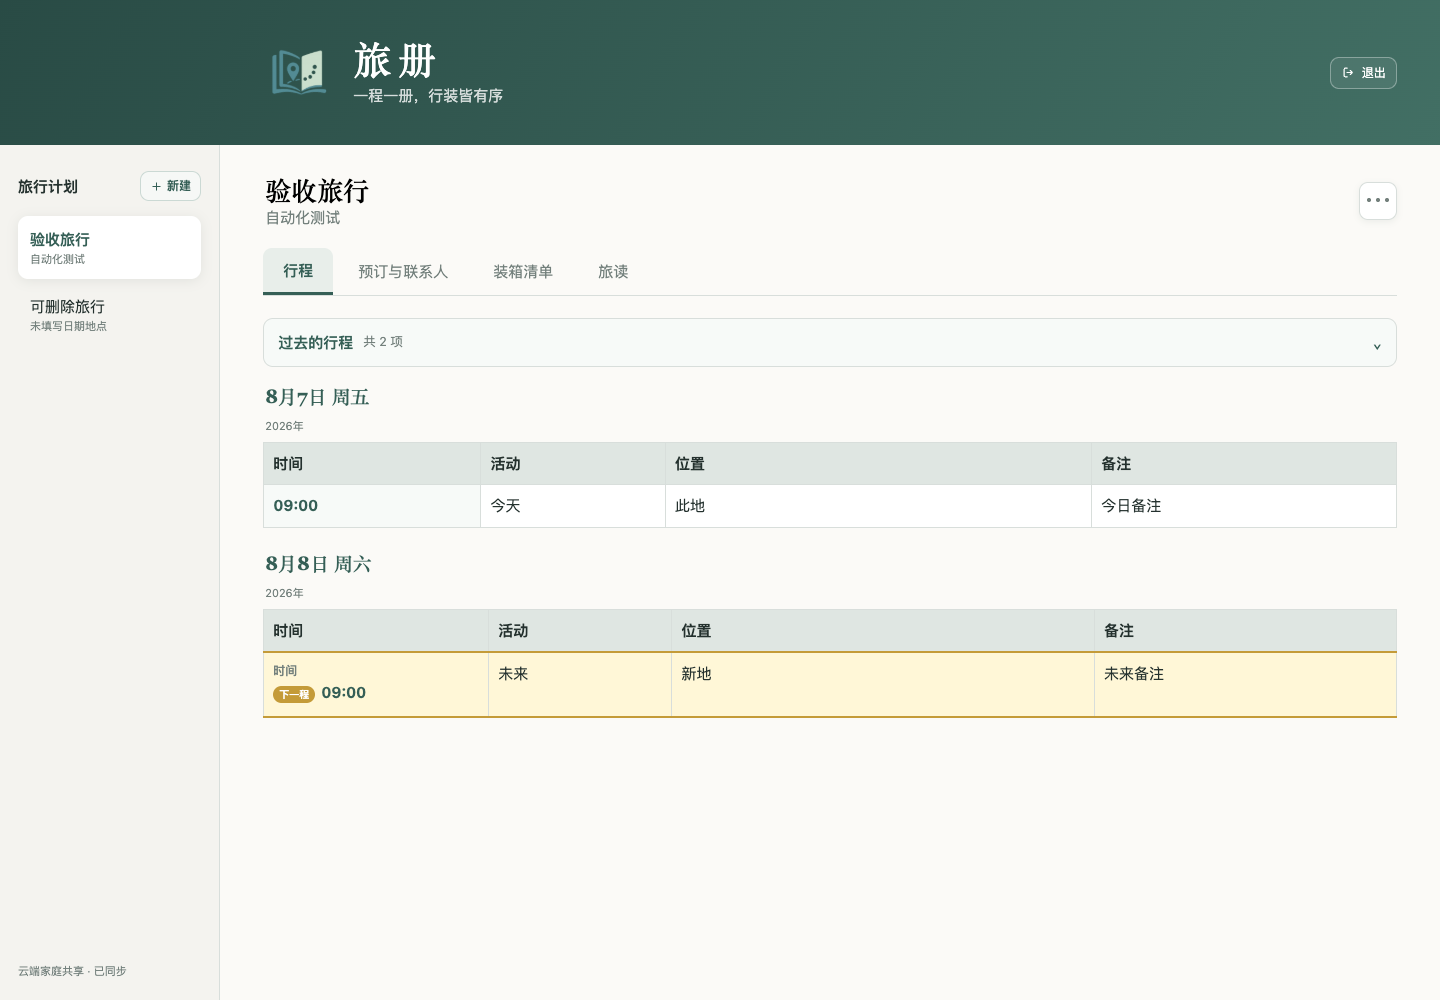
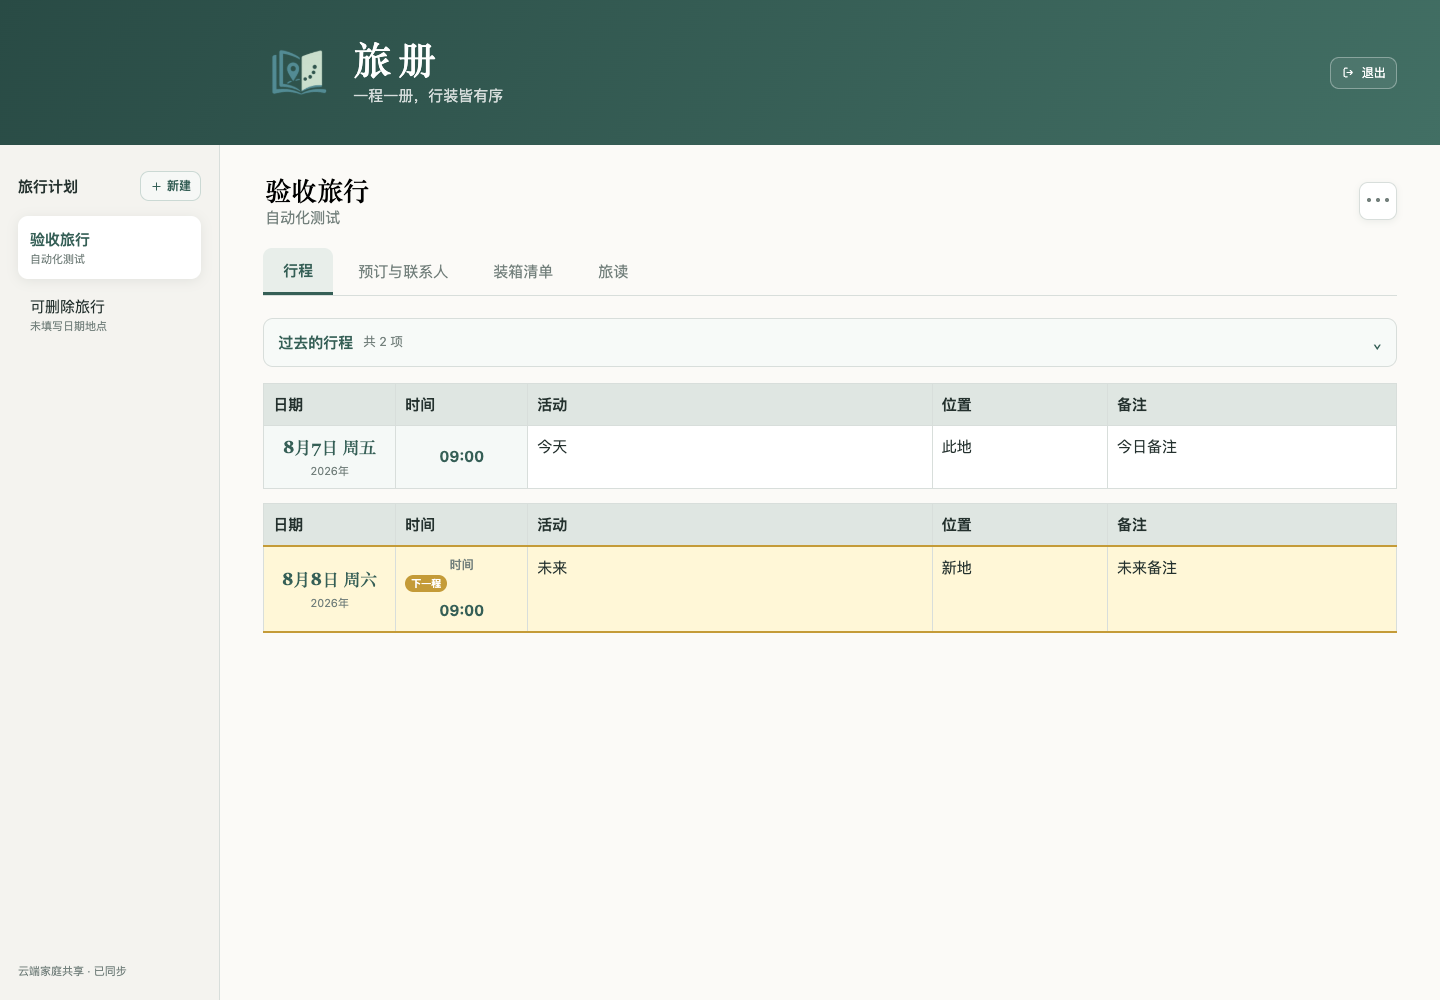
Merge itinerary dates with rowspan

Changed region(s): [[0.1562, 0.372, 0.9688, 0.744]]

diff --git a/app.js b/app.js
@@ -83,14 +83,14 @@ function groupItineraryRows(rows){let dated=rows.map((row,index)=>({row,index,da
 function itineraryDayIsExpanded(date,now=new Date()){return !/^(\d{4})-(\d{2})-(\d{2})$/.test(date)||date>=shanghaiParts(now).date}
 window.lvceItineraryDayIsExpanded=itineraryDayIsExpanded;
 function itineraryDateLabel(date){let m=/^(\d{4})-(\d{2})-(\d{2})$/.exec(date);if(!m)return {title:date||'未填写日期',year:''};let day=new Date(Date.UTC(+m[1],+m[2]-1,+m[3])),weekday=['周日','周一','周二','周三','周四','周五','周六'][day.getUTCDay()];return {title:`${+m[2]}月${+m[3]}日 ${weekday}`,year:m[1]}}
-function itineraryGroupHeading(group,rows){let label=itineraryDateLabel(group.key),head=document.createElement('header');head.className='itinerary-day-heading';head.innerHTML=`<div><h3>${esc(label.title)}</h3>${label.year?`<small>${esc(label.year)}年</small>`:''}</div>`;if(editing){let input=document.createElement('textarea');input.className='itinerary-date-edit';input.rows=1;input.value=group.key==='未填写日期'?'':group.key;input.setAttribute('aria-label','日期');input.oninput=()=>autoGrow(input);input.onchange=()=>{group.items.forEach(item=>rows[item.index][0]=input.value);save();render()};head.append(input);requestAnimationFrame(()=>autoGrow(input))}return head}
+function itineraryDateCell(group,rows){let label=itineraryDateLabel(group.key),cell=document.createElement('td');cell.className='itinerary-date-cell';cell.dataset.label='日期';cell.rowSpan=group.items.length;cell.innerHTML=`<div class="cell-view"><strong>${esc(label.title)}</strong>${label.year?`<small>${esc(label.year)}年</small>`:''}</div>`;if(editing){let input=document.createElement('textarea');input.className='cell-edit itinerary-date-edit';input.rows=1;input.value=group.key==='未填写日期'?'':group.key;input.setAttribute('aria-label','日期');input.oninput=()=>autoGrow(input);input.onchange=()=>{group.items.forEach(item=>rows[item.index][0]=input.value);save();render()};cell.append(input);requestAnimationFrame(()=>autoGrow(input))}return cell}
 function ticketRecordId(row,index){return row?.[12]||`ticket:${index}`}function bookingTargets(){let t=trip(),targets=[];t.tickets.forEach((row,index)=>targets.push({targetType:'ticket',targetId:ticketRecordId(row,index),title:row[0]||'未命名门票',row,index}));t.transport.forEach((row,index)=>targets.push({targetType:'transport',targetId:`transport:${index}`,title:[row[1],row[4]&&row[6]?`${row[4]}→${row[6]}`:''].filter(Boolean).join(' '),row,index}));return targets}function linkedBooking(row){let link=trip().itineraryLinks?.find(x=>x.date===row[0]&&x.activity===row[2]);return link&&bookingTargets().find(x=>x.targetType===link.targetType&&x.targetId===link.targetId)}function openBooking(target){state.tab='bookings';render();requestAnimationFrame(()=>{let id=target.targetType==='ticket'?`ticket-row-${target.index}`:`transport-row-${target.index}`,node=document.getElementById(id);node?.classList.add('linked-row-highlight');node?.focus();node?.scrollIntoView({behavior:'smooth',block:'center'})})}
 function itineraryPanel(rows){
   let specs=itinerarySpecs,sec=document.createElement('section'),nextIndex=nextItineraryIndex(rows),today=shanghaiParts().date,groups=groupItineraryRows(rows);
   let past=groups.filter(g=>/^\d{4}-\d{2}-\d{2}$/.test(g.key)&&g.key<today),current=groups.filter(g=>!/^\d{4}-\d{2}-\d{2}$/.test(g.key)||g.key>=today);
   sec.className='table-block itinerary-block';sec.innerHTML='<div class="section-title"><h2>每日行程</h2><button class="edit-only">＋ 添加</button></div><div class="itinerary-current itinerary-groups"></div>';
   let appendRow=(body,item)=>{let node=rowNode('每日行程',rows,specs,item.row,item.index,{actions:editing,next:!editing&&item.index===nextIndex});let linked=linkedBooking(item.row),cell=node.querySelector('td[data-label="活动"] .cell-view');if(linked&&cell){let b=document.createElement('button');b.type='button';b.className='booking-link';b.textContent=linked.targetType==='transport'?'查看车票 →':'查看门票 →';b.setAttribute('aria-label',`查看${linked.title}详情`);b.onclick=()=>openBooking(linked);cell.append(b)}if(editing){let cell=node.querySelector('td[data-label="活动"]'),sel=document.createElement('select');sel.className='booking-link-edit';sel.setAttribute('aria-label','关联票据或预订');let targets=bookingTargets();sel.innerHTML='<option value="">不关联</option>'+targets.map(d=>`<option value="${attr(d.targetType+'|'+d.targetId)}">${esc(d.targetType==='transport'?'交通：':'门票：')}${esc(d.title)}</option>`).join('');sel.value=linked?linked.targetType+'|'+linked.targetId:'';sel.onchange=()=>{trip().itineraryLinks=trip().itineraryLinks.filter(x=>!(x.date===item.row[0]&&x.activity===item.row[2]));if(sel.value){let [targetType,...parts]=sel.value.split('|');trip().itineraryLinks.push({date:item.row[0],activity:item.row[2],targetType,targetId:parts.join('|')})}save()};cell.append(sel)}body.append(node)};
-  let appendGroup=(container,group)=>{let block=document.createElement('section');block.className='itinerary-day-group';block.dataset.date=group.key;block.append(itineraryGroupHeading(group,rows));let scroll=document.createElement('div');scroll.className='data-scroll';scroll.innerHTML=`<table class="data-table itinerary-table"><thead><tr>${specs.map(s=>`<th>${s.label}</th>`).join('')}${editing?actionHead():''}</tr></thead><tbody></tbody></table>`;group.items.forEach(item=>appendRow(scroll.querySelector('tbody'),item));block.append(scroll);container.append(block)};
+  let appendGroup=(container,group)=>{let block=document.createElement('section');block.className='itinerary-day-group';block.dataset.date=group.key;let scroll=document.createElement('div');scroll.className='data-scroll';scroll.innerHTML=`<table class="data-table itinerary-table"><thead><tr><th>日期</th>${specs.map(s=>`<th>${s.label}</th>`).join('')}${editing?actionHead():''}</tr></thead><tbody></tbody></table>`;let body=scroll.querySelector('tbody');group.items.forEach(item=>appendRow(body,item));body.firstElementChild?.prepend(itineraryDateCell(group,rows));block.append(scroll);container.append(block)};
   let currentBox=sec.querySelector('.itinerary-current');current.forEach(g=>appendGroup(currentBox,g));if(!current.length)currentBox.innerHTML='<div class="empty">暂无今天或未来行程</div>';
   if(past.length){let count=past.reduce((n,g)=>n+g.items.length,0),details=document.createElement('details');details.className='past-itinerary';details.open=editing;details.innerHTML=`<summary><span>过去的行程</span><small>共 ${count} 项</small><i aria-hidden="true">⌄</i></summary><div class="itinerary-groups"></div>`;past.forEach(g=>appendGroup(details.querySelector('.itinerary-groups'),g));sec.insertBefore(details,currentBox)}
   sec.querySelector('.section-title button').onclick=()=>{let date=groups.at(-1)?.key;if(!date||date==='未填写日期')date=today;rows.push([date,'','','','','']);save();render()};return sec

diff --git a/test/browser.test.js b/test/browser.test.js
@@ -1553,19 +1553,22 @@ test('past itinerary is one external collapsed section while today and future re
     assert.equal(await page.locator('.past-itinerary summary').innerText(),'过去的行程\n共 2 项\n⌄');
     assert.equal(await page.locator('.itinerary-day-summary,.itinerary-day-collapsed,.itinerary-day-toggle').count(),0,'daily collapse placeholders must not exist in tables');
     assert.equal(await page.locator('.itinerary-current .itinerary-day-group').count(),2,'today and future remain continuously visible as date groups');
-    assert.deepEqual(await page.locator('.itinerary-current .itinerary-day-heading h3').allTextContents(),['8月7日 周五','8月8日 周六']);
-    assert.equal(await page.locator('.itinerary-block td[data-label="日期"],.itinerary-block th:text-is("日期")').count(),0,'data tables have no date column');
-    assert.equal(await page.locator('.itinerary-day-heading button,.itinerary-day-group details').count(),0,'date headings are static and never daily collapsibles');
+    assert.deepEqual(await page.locator('.itinerary-current td[data-label="日期"] strong').allTextContents(),['8月7日 周五','8月8日 周六']);
+    assert.deepEqual(await page.locator('.itinerary-current td[data-label="日期"]').evaluateAll(cells=>cells.map(cell=>({rowspan:cell.rowSpan,text:cell.innerText.trim()}))),[{rowspan:1,text:'8月7日 周五\n2026年'},{rowspan:1,text:'8月8日 周六\n2026年'}],'each day has one merged date cell');
+    assert.deepEqual(await page.locator('.itinerary-current thead').first().locator('th').allTextContents(),['日期','时间','活动','位置','备注'],'wide itinerary is a five-column table');
+    assert.equal(await page.locator('.itinerary-day-heading,.itinerary-day-group details').count(),0,'dates are table cells and never daily collapsibles');
     await page.setViewportSize({width:1440,height:1000});
     await page.screenshot({path:join(root,'docs/evidence/itinerary-date-groups-desktop-20260807.png'),fullPage:true});
     await page.setViewportSize({width:390,height:844});
     await page.screenshot({path:join(root,'docs/evidence/itinerary-date-groups-mobile-20260807.png'),fullPage:true});
     await page.locator('.past-itinerary summary').click();
     assert.equal(await page.locator('.past-itinerary tbody tr').count(),2,'expanding reveals all past items');
-    assert.deepEqual(await page.locator('.past-itinerary tbody tr').evaluateAll(rows=>rows.map(row=>row.children.length)),[4,4],'every read-only past row has the stable four-column shape');
+    assert.equal(await page.locator('.past-itinerary td[data-label="日期"]').count(),1,'same-day past rows share one date cell');
+    assert.equal(await page.locator('.past-itinerary td[data-label="日期"]').getAttribute('rowspan'),'2');
+    assert.deepEqual(await page.locator('.past-itinerary tbody tr').evaluateAll(rows=>rows.map(row=>row.children.length)),[5,4],'rowspan makes the first row five cells and following rows four');
     await page.locator('summary[aria-label="更多操作"]').click();
     await page.getByRole('button',{name:'修改',exact:true}).click();
-    assert.equal(await page.locator('.past-itinerary textarea[aria-label="日期"]').count(),1,'one date editor belongs to the past date group heading');
+    assert.equal(await page.locator('.past-itinerary textarea[aria-label="日期"]').count(),1,'one shared date editor belongs to the merged date cell');
     assert.equal(await page.locator('.past-itinerary .remove-row').count(),2,'past rows retain delete controls');
   }finally{await page.close();document.trips[0].itinerary=oldItinerary;document.tab=oldTab}
 });

diff --git a/style.css b/style.css
@@ -428,3 +428,7 @@ body.public-view header>div.brand{grid-column:1}
 @media print{.itinerary-groups{display:block}.itinerary-day-group{margin-bottom:4mm;break-inside:auto}.itinerary-day-heading{margin-bottom:2mm}.itinerary-day-heading h3{font-size:11pt}.past-itinerary>.itinerary-groups{padding:0;border:0}}
 .itinerary-day-heading{height:auto;background:transparent;color:var(--green);padding:0 2px}.itinerary-day-heading h3{color:var(--green);letter-spacing:0}.itinerary-day-heading small{margin:0;opacity:1}.itinerary-table tr.next-itinerary::before{content:none}.itinerary-table tr.next-itinerary td[data-label="时间"]::before{content:attr(data-label);display:block;margin:0;padding:0;border-radius:0;background:transparent;color:var(--muted);font-size:12px;font-weight:700}.itinerary-table tr.next-itinerary td[data-label="时间"] .cell-view::before{content:'下一程';display:inline-block;margin:0 6px 4px 0;padding:1px 6px;border-radius:10px;background:#c49b38;color:#fff;font-size:10px;font-weight:700}
 @media(max-width:680px){.itinerary-table tr.next-itinerary td[data-label="时间"] .cell-view::before{display:none}}
+/* Final itinerary layout: one five-column table per day; date is a shared rowspan cell. */
+.itinerary-groups{gap:14px}.itinerary-day-heading{display:none}.itinerary-date-cell{width:132px;min-width:132px;vertical-align:middle!important;text-align:center!important;background:#f5f9f7}.itinerary-date-cell .cell-view{display:grid;gap:3px;min-width:0;color:var(--green)}.itinerary-date-cell strong{font:700 17px Georgia,"Songti SC",serif;white-space:nowrap}.itinerary-date-cell small{color:var(--muted);font-size:11px;font-weight:400}.itinerary-date-edit{width:100%;min-width:100px}.itinerary-table tr.next-itinerary td[data-label="时间"] .cell-view::before{display:block;width:max-content;margin-bottom:4px}.itinerary-table tr.next-itinerary::before{content:none!important}
+@media(max-width:680px){.itinerary-table,.itinerary-table tbody{display:table}.itinerary-table tr{display:table-row;border:0;border-radius:0;box-shadow:none}.itinerary-table td{display:table-cell;width:auto;padding:8px;position:static;border:1px solid var(--line)}.itinerary-table td::before{display:none}.itinerary-table thead{display:table-header-group}.itinerary-table th{display:table-cell}.itinerary-table{min-width:760px;border-collapse:collapse;background:#fff}.itinerary-date-cell{width:126px;min-width:126px}.itinerary-table tr.next-itinerary td[data-label="时间"]::before{display:none}.itinerary-table tr.next-itinerary td[data-label="时间"] .cell-view::before{display:block}.past-itinerary>.itinerary-groups{padding:14px 12px}}
+@media print{.itinerary-date-cell{width:24mm;min-width:0!important}.itinerary-date-cell strong{font-size:8pt}}
